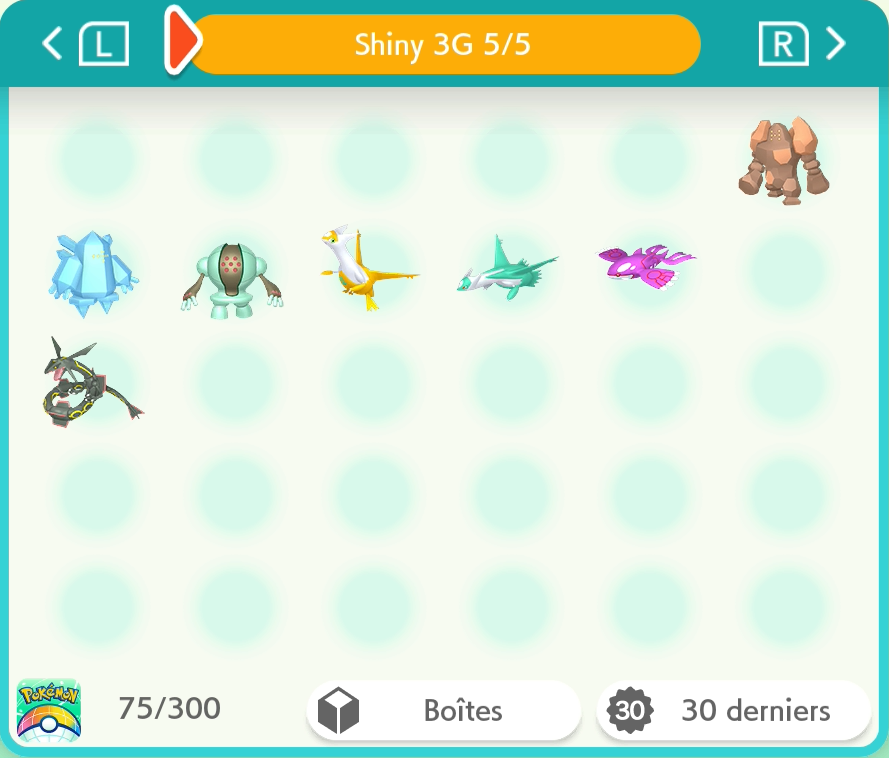
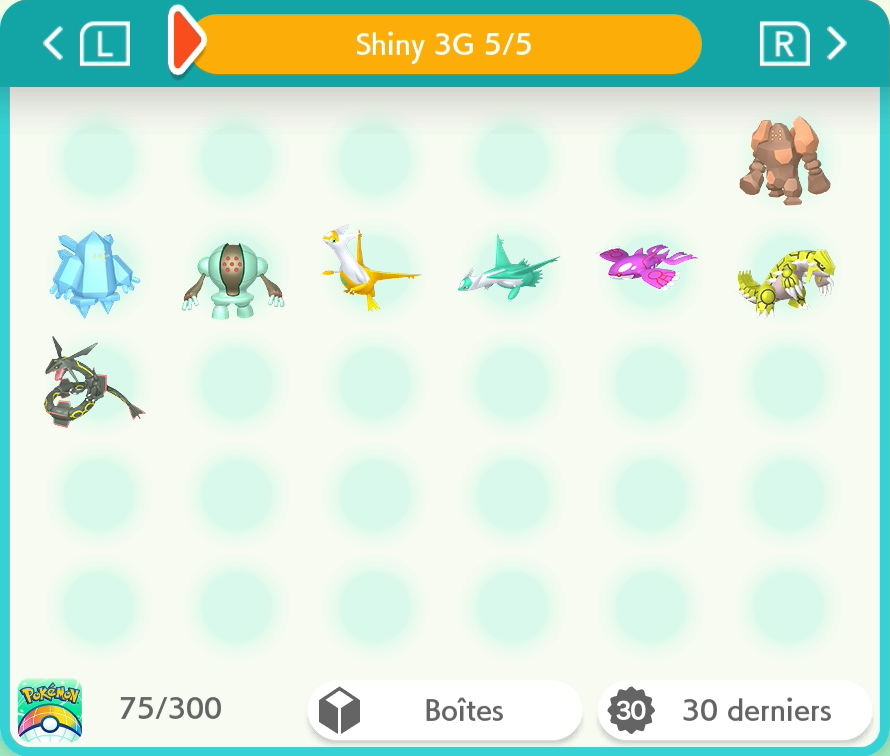
3G : Groudon | 4G : Créhelf

diff --git a/README.md b/README.md
@@ -2,15 +2,15 @@
 
 Pokémon-Elément-Sh -> <a href="https://www.pokemon-element-sh.fr/profil/karyno21" target="_blank">Karyno21</a>
 
-↓ Dernière Update le 15/10/2026 à 0h51 ↓
-### Dex 1-9G [295/1001] +34
+↓ Dernière Update le 16/10/2026 à 0h20 ↓
+### Dex 1-9G [297/1001] +36
 
 | Gen | Prog | Notes |
 |:--:|:--:|---|
 |1G|48/151|+4 : Artikodin, Électhor, Sulfura & Ptéra|
 |2G|38/100|+6 : Celebi, Raikou, Entei, Suicune, Lugia & Ho-Oh|
-|3G|28/135|+6 : Spinda, Regirock, Regice, Registeel, Latias, Latios & Kyogre|
-|4G|20/107||
+|3G|29/135|+7 : Spinda, Regirock, Regice, Registeel, Latias, Latios, Kyogre & Groudon|
+|4G|21/107|+1 : Créhelf|
 |5G|31/155|+3 : Genesect (JP Event), Venipatte & Scobolide|
 |6G|30/71|+8 : Amagara, Dragmara, Ptyranidur, Volcanion (HOME), Diancie (JP Event), Lépidonille, Pérégrain & Prismillon (Fantaisie)|
 |7G|20/84|+4 : Type:0, Silvallié, Mandrillon & Sovkipou|
@@ -26,7 +26,7 @@ Pokémon-Elément-Sh -> <a href="https://www.pokemon-element-sh.fr/profil/karyno
 |Hisui|17/17|Complété|
 |Paldea|4/4|Complété|
 
-### Total [353/1059] +34
+### Total [355/1059] +36
 
 <details>
   <summary>Bonus - Motif de Prismillon</summary>
